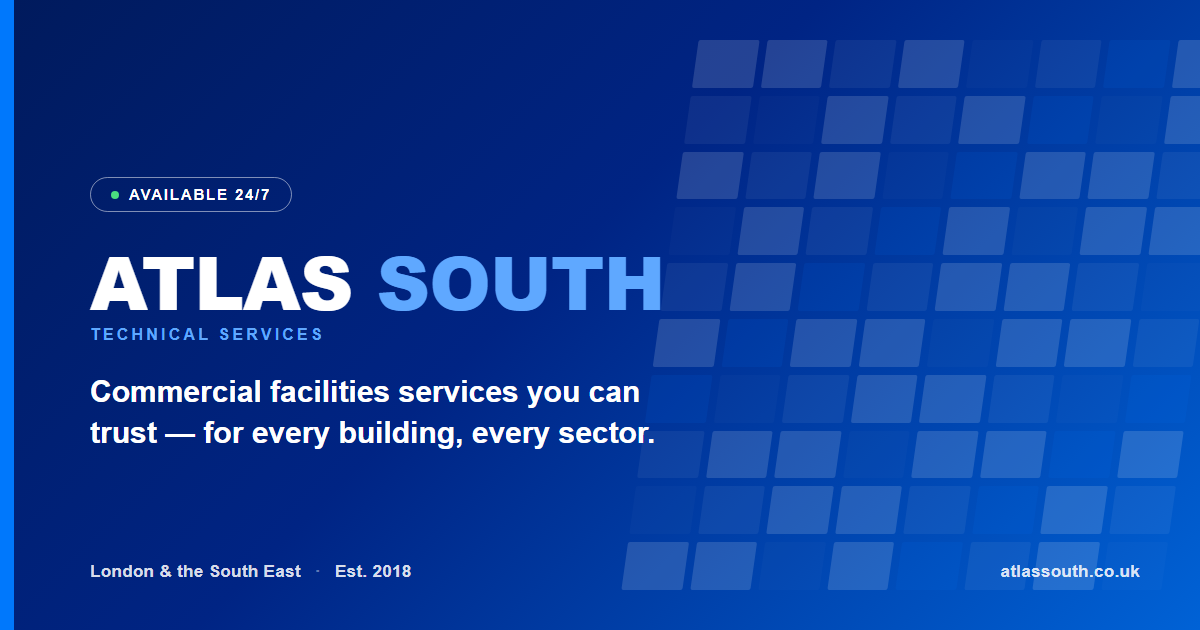
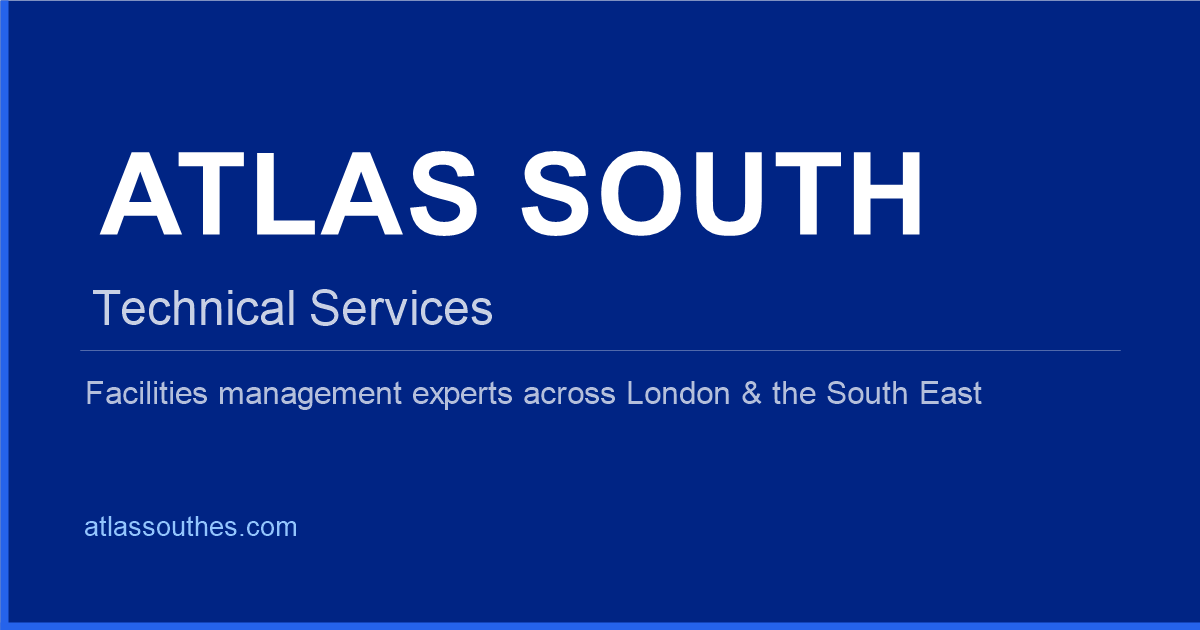
seo: add OG share image and fix doubled site-name in page titles (#75)
* a11y: add skip-navigation link to index.html (WCAG 2.4.1)

Visually hidden until focused; targets #main-content on the <main>
landmark already in Layout.tsx. Fixes squirrelscan a11y/skip-link finding.
Font preconnect and <main> landmark were already in place.

* seo: add og-image.png and fix doubled site-name in page titles

## OG image
- Added apps/web/public/og-image.png (1200x630, navy brand background, white
  wordmark, tagline, domain) — the <Seo> component already falls back to
  /og-image.png for og:image + twitter:image on every page; no component changes
  needed.

## Title fixes
The <Seo> component auto-appends '| Atlas South' to every title prop.
Four pages had '| Atlas South' or 'Atlas South' already embedded, producing
doubled names (e.g. 'Careers at Atlas South | Join Our Team | Atlas South').

- VisionMission: 'Vision & Mission | Atlas South' -> 'Vision & Mission'
- Contact:        'Contact Atlas South | Get a Free Quote' -> 'Contact Us — Get a Free Quote'
- About:          'About Atlas South | Trusted London Trade & Facilities Services' -> 'About Us — Trusted London Facilities Partner'
- Careers:        'Careers at Atlas South | Join Our Team' -> 'Careers — Join Our Team'

All now render as 'Page Title | Atlas South' as intended.

---------

diff --git a/apps/web/src/pages/company/VisionMission.tsx b/apps/web/src/pages/company/VisionMission.tsx
@@ -12,7 +12,7 @@ export function VisionMission() {
   return (
     <>
       <Seo
-        title="Vision & Mission | Atlas South"
+        title="Vision & Mission"
         description="Our vision is to be the most trusted facilities partner for organisations where standards and compliance are always on the line. Our mission drives every job we deliver."
         path="/company/vision-mission"
         jsonLd={{

diff --git a/apps/web/src/pages/company/About.tsx b/apps/web/src/pages/company/About.tsx
@@ -17,7 +17,7 @@ export function About() {
   return (
     <>
       <Seo
-        title="About Atlas South | Trusted London Trade & Facilities Services"
+        title="About Us — Trusted London Facilities Partner"
         description="Founded in 2018, Atlas South has grown into London's full-service facilities company. Meet our team, learn our story."
         path="/company"
         jsonLd={{

diff --git a/apps/web/src/pages/company/Contact.tsx b/apps/web/src/pages/company/Contact.tsx
@@ -10,7 +10,7 @@ export function Contact() {
   return (
     <>
       <Seo
-        title="Contact Atlas South | Get a Free Quote"
+        title="Contact Us — Get a Free Quote"
         description="Ready to discuss your project? Contact Atlas South today. 24/7 emergency line: 07778 858278"
         path="/company/contact"
         jsonLd={{

diff --git a/apps/web/src/pages/careers/Careers.tsx b/apps/web/src/pages/careers/Careers.tsx
@@ -17,7 +17,7 @@ export function Careers() {
   return (
     <>
       <Seo
-        title="Careers at Atlas South | Join Our Team"
+        title="Careers — Join Our Team"
         description="Grow with Atlas South. We're hiring talented professionals to join our London-based team."
         path="/company/join-us"
         jsonLd={{
